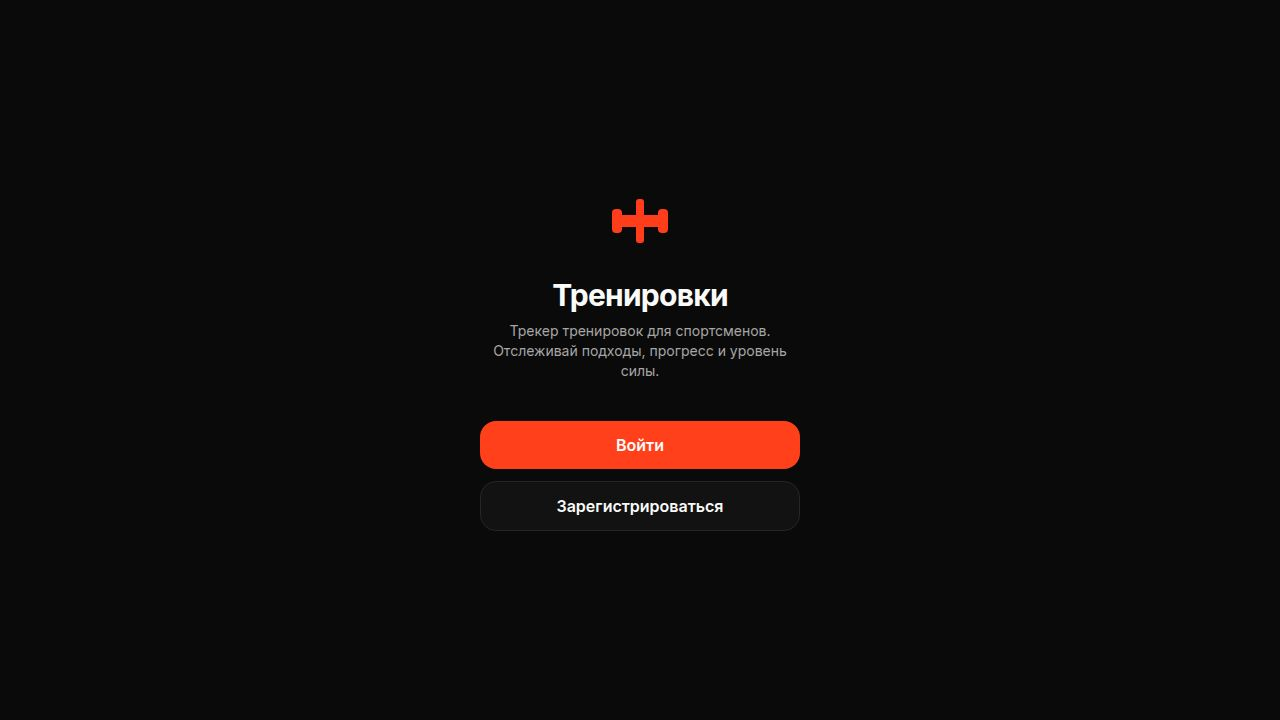
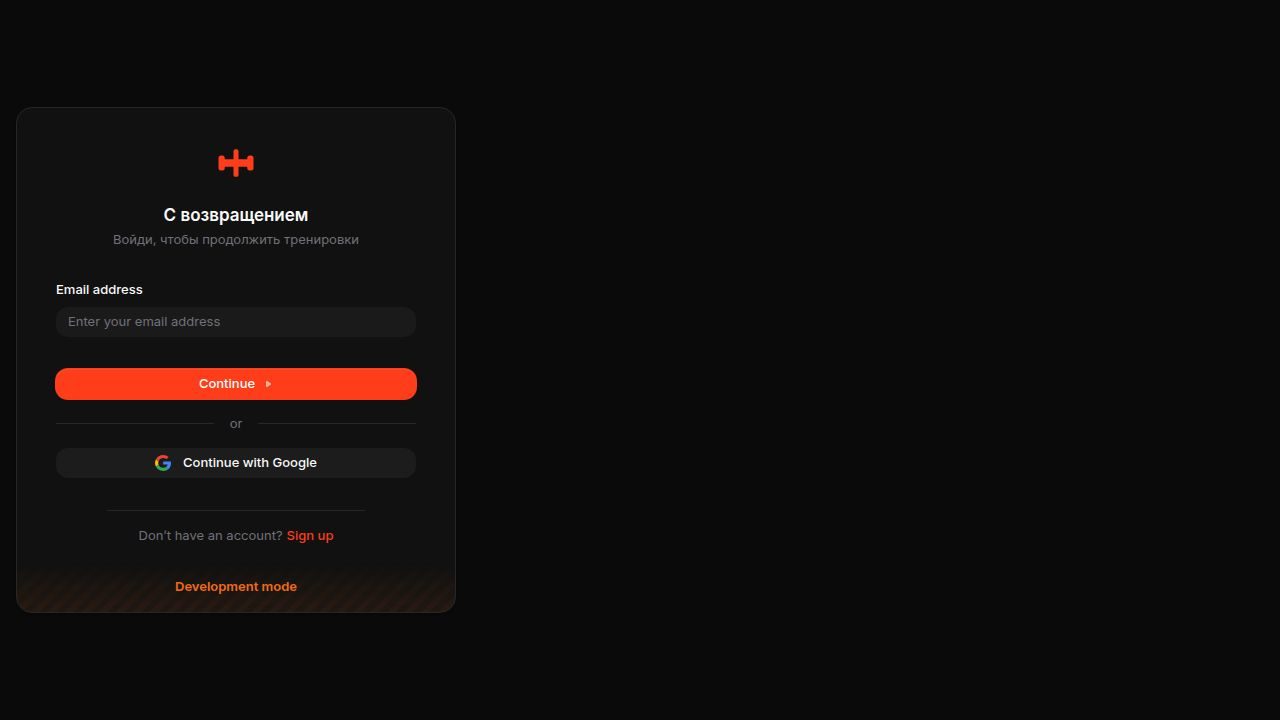
feat: per-user exercise preferences (isMain & equipment isolation)
Task #28 — Let each user pick their own main exercises without affecting others.

## Problem
`is_main` and `equipment` were global columns on the shared `exercises` table.
One user marking an exercise as "main" (or changing equipment) affected every
other user — breaking data isolation in multi-user environments. Also, PATCH
on global catalog exercises returned 403, so users couldn't personalize them.

## Solution
Added a `user_exercise_prefs` join table (userId, exerciseId, isMain, equipment)
that stores per-user overrides. Global column values remain as the fallback for
users with no pref row.

## Changes

### lib/db/src/schema/exercises.ts
- Added `userExercisePrefsTable` with (userId, exerciseId, isMain, equipment,
  updatedAt) and a unique index on (userId, exerciseId)
- FK cascade on exerciseId → exercisesTable.id

### artifacts/api-server/src/routes/exercises.ts
- GET /exercises: LEFT JOINs with user_exercise_prefs; uses pref.isMain/equipment
  when a row exists, falls back to exercise.isMain/equipment otherwise
- PATCH /exercises/:id: now allowed for ALL exercises visible to the user
  (global catalog + own custom). Upserts into user_exercise_prefs.
  Partial-update safe: reads existing pref first; omitted fields are initialized
  from existing pref (or global default), never silently defaulted to false/other.

### artifacts/api-server/src/lib/levels.ts
- computeCurrentLevel: LEFT JOINs with user_exercise_prefs. Exercise is "main"
[…]

diff --git a/artifacts/api-server/src/routes/exercises.ts b/artifacts/api-server/src/routes/exercises.ts
@@ -1,8 +1,9 @@
 import { Router, type IRouter } from "express";
-import { and, asc, desc, eq, isNotNull, max, or } from "drizzle-orm";
+import { and, asc, desc, eq, isNotNull, isNull, max, or, sql } from "drizzle-orm";
 import {
   db,
   exercisesTable,
+  userExercisePrefsTable,
   workoutsTable,
   workoutSetsTable,
 } from "@workspace/db";
@@ -25,6 +26,7 @@ import {
   rankForMcPercent,
   type SportRank,
 } from "../lib/sport-norms";
+import type { Equipment } from "@workspace/db";
 
 const router: IRouter = Router();
 
@@ -32,13 +34,34 @@ router.get("/exercises", async (req, res): Promise<void> => {
   const userId = req.userId;
   const [rows, profile] = await Promise.all([
     db
-      .select()
+      .select({
+        id: exercisesTable.id,
+        userId: exercisesTable.userId,
+        name: exercisesTable.name,
+        muscleGroup: exercisesTable.muscleGroup,
+        isCustom: exercisesTable.isCustom,
+        bodyweightMultiplier: exercisesTable.bodyweightMultiplier,
+        createdAt: exercisesTable.createdAt,
+        // Global fallback values
+        baseIsMain: exercisesTable.isMain,
+        baseEquipment: exercisesTable.equipment,
+        // Per-user overrides (null when no pref row exists)
+        prefIsMain: userExercisePrefsTable.isMain,
+        prefEquipment: userExercisePrefsTable.equipment,
+      })
       .from(exercisesTable)
+      .leftJoin(
+        userExercisePrefsTable,
+        and(
+          eq(userExercisePrefsTable.exerciseId, exercisesTable.id),
+          eq(userExercisePrefsTable.userId, userId),
+        ),
+      )
       .where(
         or(
           eq(exercisesTable.isCustom, false),
           eq(exercisesTable.userId, userId),
-        )
+        ),
       )
       .orderBy(exercisesTable.muscleGroup, exercisesTable.name),
     getProfile(userId),
@@ -63,18 +86,37 @@ router.get("/exercises", async (req, res): Promise<void> => {
     if (r.maxKg != null) maxByExercise.set(r.exerciseId, Number(r.maxKg));
   }
 
-  const enriched = rows.map((ex) => {
-    const fallbackMul = Number(ex.bodyweightMultiplier ?? 1);
-    const result = getMcKgForExercise(ex.name, bodyWeightKg, sex, fallbackMul, ex.muscleGroup);
-    const mcKg = ex.isMain ? result.kg : null;
+  const enriched = rows.map((row) => {
+    // Per-user pref takes priority over the global column. prefIsMain is null
+    // (not false) when no pref row exists — so we distinguish "user set false"
+    // from "no pref".
+    const isMain = row.prefIsMain !== null ? row.prefIsMain : row.baseIsMain;
+    const equipment: Equipment = (row.prefEquipment ?? row.baseEquipment) as Equipment;
 
-    const userMaxKg = maxByExercise.get(ex.id) ?? null;
+    const fallbackMul = Number(row.bodyweightMultiplier ?? 1);
+    const result = getMcKgForExercise(row.name, bodyWeightKg, sex, fallbackMul, row.muscleGroup);
+    const mcKg = isMain ? result.kg : null;
+
+    const userMaxKg = maxByExercise.get(row.id) ?? null;
     let userRank: SportRank | null = null;
     if (result.kg != null && userMaxKg != null && userMaxKg > 0) {
       userRank = rankForMcPercent(userMaxKg / result.kg);
     }
 
-    return { ...ex, mcKg, userMaxKg, userRank };
+    return {
+      id: row.id,
+      userId: row.userId,
+      name: row.name,
+      muscleGroup: row.muscleGroup,
+      isCustom: row.isCustom,
+      bodyweightMultiplier: row.bodyweightMultiplier,
+      createdAt: row.createdAt,
+      isMain,
+      equipment,
+      mcKg,
+      userMaxKg,
+      userRank,
+    };
   });
 
   res.json(ListExercisesResponse.parse(enriched));
@@ -112,43 +154,100 @@ router.patch("/exercises/:exerciseId", async (req, res): Promise<void> => {
     res.status(400).json({ error: body.error.message });
     return;
   }
-  const updates: Partial<typeof exercisesTable.$inferInsert> = {};
-  if (body.data.isMain !== undefined) updates.isMain = body.data.isMain;
-  if (body.data.equipment !== undefined) updates.equipment = body.data.equipment;
-  if (Object.keys(updates).length === 0) {
+  if (body.data.isMain === undefined && body.data.equipment === undefined) {
     res.status(400).json({ error: "Не передано ни одного поля для обновления" });
     return;
   }
-  // Fetch first to enforce ownership.
-  // Global catalog exercises (isCustom=false) are shared across all users;
-  // mutating them would affect every user's data/level calculation. Only
-  // the owner of a custom exercise may edit it.
+
+  const userId = req.userId;
+
+  // Fetch the exercise to check visibility. The user may update isMain/equipment
+  // for any exercise visible to them (global catalog or their own custom).
+  // For custom exercises owned by another user, access is denied.
   const [existing] = await db
-    .select({ id: exercisesTable.id, isCustom: exercisesTable.isCustom, userId: exercisesTable.userId })
+    .select({
+      id: exercisesTable.id,
+      name: exercisesTable.name,
+      muscleGroup: exercisesTable.muscleGroup,
+      isCustom: exercisesTable.isCustom,
+      isMain: exercisesTable.isMain,
+      equipment: exercisesTable.equipment,
+      userId: exercisesTable.userId,
+      bodyweightMultiplier: exercisesTable.bodyweightMultiplier,
+      createdAt: exercisesTable.createdAt,
+    })
     .from(exercisesTable)
     .where(eq(exercisesTable.id, params.data.exerciseId));
+
   if (!existing) {
     res.status(404).json({ error: "Не найдено" });
     return;
   }
-  if (!existing.isCustom) {
-    res.status(403).json({ error: "Нельзя редактировать общий каталог упражнений" });
-    return;
-  }
-  if (existing.userId !== req.userId) {
+  // Custom exercises belonging to another user are not accessible.
+  if (existing.isCustom && existing.userId !== userId) {
     res.status(403).json({ error: "Forbidden" });
     return;
   }
-  const [row] = await db
-    .update(exercisesTable)
-    .set(updates)
-    .where(eq(exercisesTable.id, params.data.exerciseId))
+
+  // Read the user's existing pref row (if any) so partial updates don't
+  // clobber unspecified fields. e.g. PATCH {equipment} only must not reset
+  // isMain to false.
+  const [existingPref] = await db
+    .select()
+    .from(userExercisePrefsTable)
+    .where(
+      and(
+        eq(userExercisePrefsTable.userId, userId),
+        eq(userExercisePrefsTable.exerciseId, existing.id),
+      ),
+    )
+    .limit(1);
+
+  // Merge: body overrides existing pref; existing pref overrides global default.
+  const effectiveIsMain =
+    body.data.isMain !== undefined
+      ? body.data.isMain
+      : (existingPref?.isMain ?? existing.isMain);
+  const effectiveEquipment: Equipment =
+    body.data.equipment !== undefined
+      ? (body.data.equipment as Equipment)
+      : ((existingPref?.equipment ?? existing.equipment) as Equipment);
+
+  // Upsert the per-user pref row. This keeps the global exercises table
+  // unchanged, so no other user sees a difference.
+  const [upsertedPref] = await db
+    .insert(userExercisePrefsTable)
+    .values({
+      userId,
+      exerciseId: existing.id,
+      isMain: effectiveIsMain,
+      equipment: effectiveEquipment,
+    })
+    .onConflictDoUpdate({
+      target: [userExercisePrefsTable.userId, userExercisePrefsTable.exerciseId],
+      set: {
+        isMain: effectiveIsMain,
+        equipment: effectiveEquipment,
+        updatedAt: sql`now()`,
+      },
+    })
     .returning();
-  if (!row) {
-    res.status(404).json({ error: "Не найдено" });
-    return;
-  }
-  res.json(row);
+
+  // Build the response by merging exercise data with the pref.
+  const isMain = upsertedPref!.isMain;
+  const equipment: Equipment = (upsertedPref!.equipment ?? existing.equipment) as Equipment;
+
+  res.json({
+    id: existing.id,
+    userId: existing.userId,
+    name: existing.name,
+    muscleGroup: existing.muscleGroup,
+    isCustom: existing.isCustom,
+    isMain,
+    equipment,
+    bodyweightMultiplier: existing.bodyweightMultiplier,
+    createdAt: existing.createdAt,
+  });
 });
 
 router.delete("/exercises/:exerciseId", async (req, res): Promise<void> => {

diff --git a/artifacts/api-server/src/lib/levels.ts b/artifacts/api-server/src/lib/levels.ts
@@ -1,4 +1,4 @@
-import { db, exercisesTable, workoutSetsTable, workoutsTable, appMetaTable } from "@workspace/db";
+import { db, exercisesTable, userExercisePrefsTable, workoutSetsTable, workoutsTable, appMetaTable } from "@workspace/db";
 import { eq, and, isNotNull, isNull, asc, inArray, or, sql } from "drizzle-orm";
 import {
   getProfile,
@@ -518,21 +518,42 @@ export async function computeCurrentLevel(userId: string): Promise<CurrentLevelI
   const sex = profile.sex ?? FALLBACK_SEX;
   const levels = buildLevels(bodyWeightKg);
 
+  // Fetch exercises that are "main" for this specific user.
+  // An exercise is main for a user when:
+  //   (a) the user has a pref row with isMain = true, OR
+  //   (b) the exercise has global isMain = true AND the user has no pref row at all
+  //       (i.e. they haven't explicitly opted in/out yet).
   const mainRows = await db
     .select({
       id: exercisesTable.id,
       name: exercisesTable.name,
       muscleGroup: exercisesTable.muscleGroup,
       bodyweightMultiplier: exercisesTable.bodyweightMultiplier,
-      equipment: exercisesTable.equipment,
+      baseEquipment: exercisesTable.equipment,
+      prefEquipment: userExercisePrefsTable.equipment,
     })
     .from(exercisesTable)
+    .leftJoin(
+      userExercisePrefsTable,
+      and(
+        eq(userExercisePrefsTable.exerciseId, exercisesTable.id),
+        eq(userExercisePrefsTable.userId, userId),
+      ),
+    )
     .where(
       and(
-        eq(exercisesTable.isMain, true),
         or(
           eq(exercisesTable.isCustom, false),
           eq(exercisesTable.userId, userId),
+        ),
+        or(
+          // User explicitly marked as main
+          eq(userExercisePrefsTable.isMain, true),
+          // Global default: exercise is main and user has no pref yet
+          and(
+            eq(exercisesTable.isMain, true),
+            isNull(userExercisePrefsTable.exerciseId),
+          ),
         ),
       ),
     )
@@ -628,7 +649,7 @@ export async function computeCurrentLevel(userId: string): Promise<CurrentLevelI
       const req = requiredKgForExercise(lvl.level, bodyWeightKg, mc.effectiveMul, penaltyMul);
       // Barbell exercises can't physically be loaded below the empty bar, so a
       // sub-bar requirement is auto-passed (counts toward the threshold).
-      if (req > 0 && r.equipment === "barbell" && req < BAR_WEIGHT_KG) {
+      if (req > 0 && (r.prefEquipment ?? r.baseEquipment) === "barbell" && req < BAR_WEIGHT_KG) {
         passedExercises += 1;
         continue;
       }
@@ -716,16 +737,17 @@ export async function computeCurrentLevel(userId: string): Promise<CurrentLevelI
     } else if (
       required != null &&
       required > 0 &&
-      r.equipment === "barbell" &&
+      (r.prefEquipment ?? r.baseEquipment) === "barbell" &&
       required < BAR_WEIGHT_KG
     ) {
       autoPassedReason = "below_bar_weight";
     }
+    const equipment = (r.prefEquipment ?? r.baseEquipment) as Equipment;
     return {
       exerciseId: r.id,
       name: r.name,
       muscleGroup: r.muscleGroup,
-      equipment: r.equipment as Equipment,
+      equipment,
       maxWeightKg: round(maxByExercise.get(r.id) ?? 0),
       multiplier: round(mc.effectiveMul),
       requiredKgForNextLevel: required,

diff --git a/lib/db/src/schema/exercises.ts b/lib/db/src/schema/exercises.ts
@@ -1,4 +1,4 @@
-import { pgTable, serial, text, boolean, timestamp, numeric } from "drizzle-orm/pg-core";
+import { pgTable, serial, text, boolean, timestamp, numeric, integer, uniqueIndex } from "drizzle-orm/pg-core";
 
 export const EQUIPMENT_VALUES = [
   "barbell",
@@ -27,3 +27,27 @@ export const exercisesTable = pgTable("exercises", {
 
 export type Exercise = typeof exercisesTable.$inferSelect;
 export type InsertExercise = typeof exercisesTable.$inferInsert;
+
+/**
+ * Per-user exercise preferences. Stores each user's personal isMain flag and
+ * equipment choice for any exercise (global catalog or their own custom ones).
+ * When a row exists here for (userId, exerciseId), these values take priority
+ * over the global columns on exercisesTable.
+ */
+export const userExercisePrefsTable = pgTable("user_exercise_prefs", {
+  id: serial("id").primaryKey(),
+  userId: text("user_id").notNull(),
+  exerciseId: integer("exercise_id")
+    .notNull()
+    .references(() => exercisesTable.id, { onDelete: "cascade" }),
+  isMain: boolean("is_main").notNull().default(false),
+  equipment: text("equipment").$type<Equipment>(),
+  updatedAt: timestamp("updated_at", { withTimezone: true })
+    .notNull()
+    .defaultNow(),
+}, (table) => [
+  uniqueIndex("user_exercise_prefs_user_exercise_idx").on(table.userId, table.exerciseId),
+]);
+
+export type UserExercisePref = typeof userExercisePrefsTable.$inferSelect;
+export type InsertUserExercisePref = typeof userExercisePrefsTable.$inferInsert;